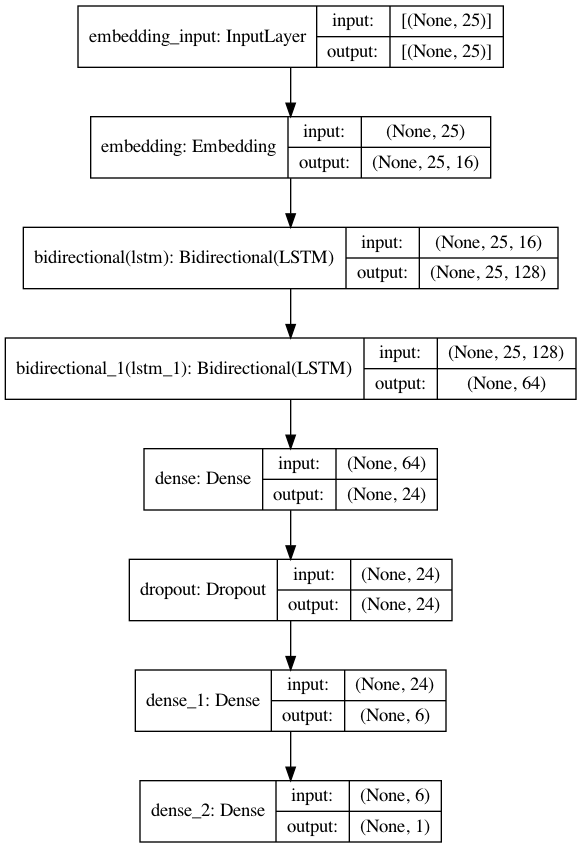
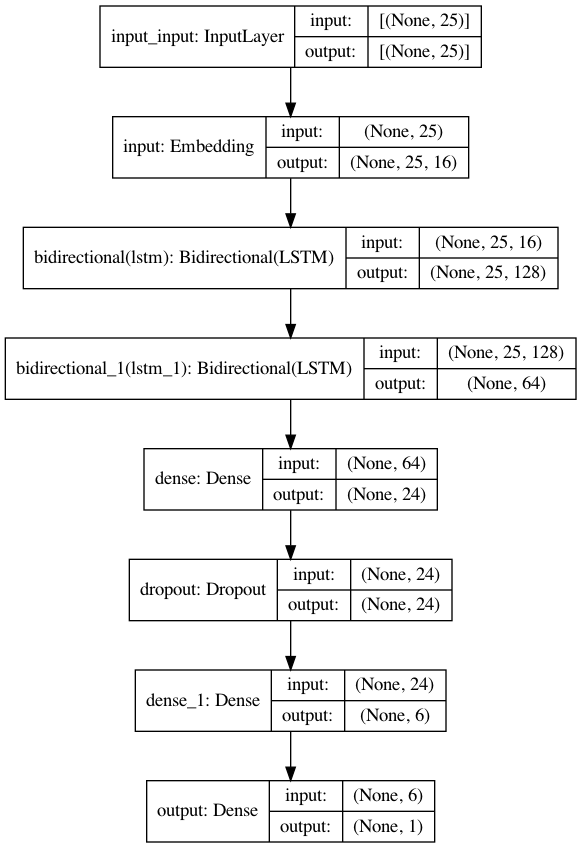
TensorBoard Logs

Changed region(s): [[0.1239, 0.0, 0.8675, 0.092], [0.1549, 0.1226, 0.8675, 0.2146], [0.2169, 0.9198, 0.7745, 1.0]]

diff --git a/src/modelHandlers.py b/src/modelHandlers.py
@@ -8,6 +8,7 @@ import os
 import io
 import random
 import numpy as np
+import datetime
 
 
 def split_file_data(source, training_dest, testing_dest, split_size):
@@ -64,20 +65,25 @@ def save_embeddings(model, reverse_word_index, vocab_size):
     out_m.close()
 
 
-def add_callbacks(save_points, indicate_lr, lr_spike_scaler, lr_scale_init):
-    callbacks = []
+def add_callbacks(save_points, indicate_lr, lr_spike_scaler, lr_scale_init, t_board):
+    callback = []
+    if t_board:
+        log_dir = '../logs/' + datetime.datetime.now().strftime("%Y%m%d-%H%M%S")
+        callback.append(callbacks.TensorBoard(
+            log_dir=log_dir, histogram_freq=1))
     if save_points:
-        callbacks.append(save_checkpoints_callback())
+        callback.append(save_checkpoints_callback())
     if indicate_lr:
-        callbacks.append(indicate_lr_callback(lr_scale_init, lr_spike_scaler))
-    return callbacks if len(callbacks) > 0 else None
+        callback.append(indicate_lr_callback(lr_scale_init, lr_spike_scaler))
+    return callback if len(callback) > 0 else None
 
 
 def teach_model_k_fold(model, x_train, y_train,
                        folds, epochs, batch_size,
                        save_points=False, indicate_lr=False,
                        lr_scale_init=None,
-                       lr_spike_scaler=None):
+                       lr_spike_scaler=None,
+                       t_board=False):
     avg_history = None
     all_scores = []
     num_value_samples = len(x_train) // folds
@@ -104,7 +110,7 @@ def teach_model_k_fold(model, x_train, y_train,
                             batch_size=batch_size,
                             validation_data=(val_data, val_targets),
                             callbacks=add_callbacks(
-                                save_points, indicate_lr, lr_spike_scaler, lr_scale_init),
+                                save_points, indicate_lr, lr_spike_scaler, lr_scale_init, t_board),
                             verbose=1)
 
         if not avg_history:
@@ -132,7 +138,8 @@ def teach_model_hold_out(model, x_train, y_train,
                          aside, epochs, batch_size,
                          save_points=False, indicate_lr=False,
                          lr_scale_init=None,
-                         lr_spike_scaler=None):
+                         lr_spike_scaler=None,
+                         t_board=False):
     partial_x_train = x_train[aside:]
     partial_y_train = y_train[aside:]
 
@@ -144,7 +151,7 @@ def teach_model_hold_out(model, x_train, y_train,
                         batch_size=batch_size,
                         validation_data=(x_val, y_val),
                         callbacks=add_callbacks(
-                            save_points, indicate_lr, lr_spike_scaler, lr_scale_init),
+                            save_points, indicate_lr, lr_spike_scaler, lr_scale_init, t_board),
                         verbose=1)
 
     if indicate_lr:

diff --git a/src/main.py b/src/main.py
@@ -9,6 +9,7 @@ from keras import models
 from keras import regularizers
 from keras import optimizers
 from keras import losses
+
 import subprocess
 import numpy as np
 import os
@@ -26,6 +27,7 @@ plottingValSize = 10
 rebuild_data = False
 save_results = False
 indicate_lr = False
+t_board_save = True
 lr_spike_scaler = .2
 lr_scale_init = 1e-3
 padding = 'post'
@@ -98,7 +100,7 @@ y_train = y_train[plottingValSize:]
 
 # Model
 model = models.Sequential([
-    layers.Embedding(dictSize, embDim, input_length=maxLength),
+    layers.Embedding(dictSize, embDim, input_length=maxLength, name='input'),
     layers.Bidirectional(layers.LSTM(64, return_sequences=True)),
     layers.Bidirectional(layers.LSTM(32)),
     layers.Dense(24, kernel_regularizer=regularizers.l2(
@@ -106,7 +108,7 @@ model = models.Sequential([
     layers.Dropout(.01),
     layers.Dense(6, kernel_regularizer=regularizers.l2(
         0.001), activation='relu'),
-    layers.Dense(1, activation='sigmoid')])
+    layers.Dense(1, activation='sigmoid', name='output')], name='click_bait_model')
 
 # apt-get install graphviz just pip not gona cut it
 plot_model(model, show_shapes=True, show_layer_names=True,
@@ -118,12 +120,13 @@ model.compile(optimizer=optimizers,
               loss='binary_crossentropy', metrics=['acc'])
 
 model.summary()
+
 history, model, score = teach_model_k_fold(
     model, x_train, y_train, folds, epochs, batchSize,
-    lr_spike_scaler=lr_spike_scaler, lr_scale_init=lr_scale_init, indicate_lr=indicate_lr)
+    lr_spike_scaler=lr_spike_scaler, lr_scale_init=lr_scale_init, indicate_lr=indicate_lr, t_board=t_board_save)
 # history, model, score = teach_model_hold_out(
 #     model, x_train, y_train, holdout, epochs, batchSize,
-#     lr_spike_scaler=lr_spike_scaler, lr_scale_init=lr_scale_init, indicate_lr=indicate_lr)
+#     lr_spike_scaler=lr_spike_scaler, lr_scale_init=lr_scale_init, indicate_lr=indicate_lr, t_board=t_board_save)
 
 plot_res(history)
 validated_rand(model, reverse_word_index, partial_x_train,
@@ -134,3 +137,4 @@ if not indicate_lr and save_results:
     save_model(model, out_data_set)
     save_embeddings(model, reverse_word_index, dictSize)
     # https://projector.tensorflow.org - fing score
+    # saved_model_cli show --dir ../model/modeljava/ --all
